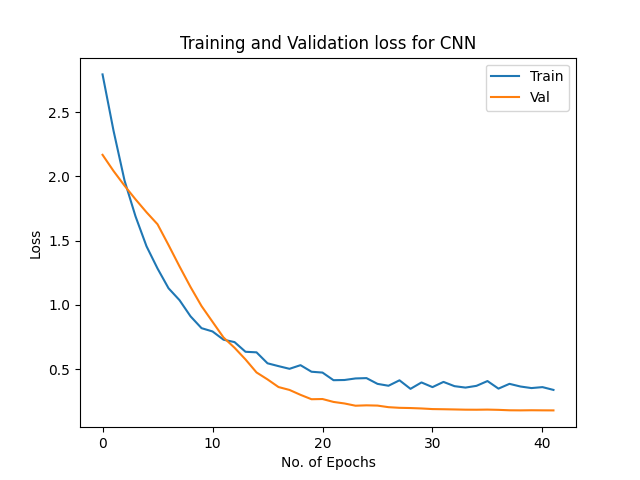
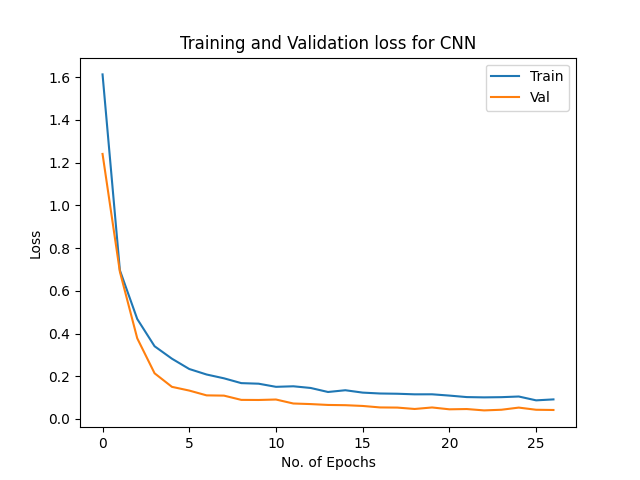
format code and change max pooling filter

diff --git a/helpers.py b/helpers.py
@@ -1,74 +1,89 @@
 import time
-from matplotlib import pyplot as plt
+
 import numpy as np
+import tensorflow as tf
+from matplotlib import pyplot as plt
+from scipy.ndimage.interpolation import shift
 from sklearn.metrics import accuracy_score
 from sklearn.utils import shuffle
-import tensorflow as tf
-from scipy.ndimage.interpolation import shift
-
 
 
 def read_data(file_path):
-  data = []
-  with open(file_path, "r") as f:
-    for line in f.readlines():
-      vector = line.split()
-      numerical_vector = list(map(lambda x: int(x), vector))
-      data.append(numerical_vector)
+    data = []
+    with open(file_path, "r") as f:
+        for line in f.readlines():
+            vector = line.split()
+            numerical_vector = list(map(lambda x: int(x), vector))
+            data.append(numerical_vector)
 
-  labels = [i for i in range(0, 10) for _ in range(200)]
-  return data, labels
+    labels = [i for i in range(0, 10) for _ in range(200)]
+    return data, labels
+
 
 def normalize(X):
-  return X / 6
+    return X / 6
+
 
 def split_data(features, labels):
-  train_features, test_features, train_labels, test_labels = [], [], [], []
-  for i in range(0, len(features), 200):
-    train_features.extend(features[i:i+100])
-    test_features.extend(features[i+100:i+200])
+    train_features, test_features, train_labels, test_labels = [], [], [], []
+    for i in range(0, len(features), 200):
+        train_features.extend(features[i : i + 100])
+        test_features.extend(features[i + 100 : i + 200])
 
-    train_labels.extend(labels[i:i+100])
-    test_labels.extend(labels[i+100:i+200])
-  
-  return normalize(np.array(train_features)), np.array(train_labels), normalize(np.array(test_features)), np.array(test_labels)
+        train_labels.extend(labels[i : i + 100])
+        test_labels.extend(labels[i + 100 : i + 200])
+
+    return (
+        normalize(np.array(train_features)),
+        np.array(train_labels),
+        normalize(np.array(test_features)),
+        np.array(test_labels),
+    )
+
 
 def plot_data(X_train, y_train):
-  num_row = 2
-  num_col = 5# plot images
-  fig, axes = plt.subplots(num_row, num_col, figsize=(2*num_col,3*num_row))
-  for i in range(10):
-      ax = axes[i//num_col, i%num_col]
-      ax.imshow(X_train[i*100].reshape(16, 15), cmap='gray', vmin=0, vmax=6)
-      ax.set_title('Label: {}'.format(y_train[i*100]))
-  plt.tight_layout()
-  plt.savefig("plots/data.png")
+    num_row = 2
+    num_col = 5  # plot images
+    fig, axes = plt.subplots(num_row, num_col, figsize=(2 * num_col, 3 * num_row))
+    for i in range(10):
+        ax = axes[i // num_col, i % num_col]
+        ax.imshow(X_train[i * 100].reshape(16, 15), cmap="gray", vmin=0, vmax=6)
+        ax.set_title("Label: {}".format(y_train[i * 100]))
+    plt.tight_layout()
+    plt.savefig("plots/data.png")
+
 
 def plot_incorrect_images(X_test, y_test, y_pred, model_name):
     wrong_predictions = y_pred != y_test
     num_row = int(np.sqrt(sum(wrong_predictions)))
     num_col = num_row + 1
-    fig, axes = plt.subplots(num_row, num_col, figsize=(3*num_col,3*num_row))
-    wrong_x, wrong_y, wrong_pred = X_test[wrong_predictions], y_test[wrong_predictions], np.array(y_pred)[wrong_predictions]
-    for i in range(num_row*num_col+num_row):
+    fig, axes = plt.subplots(num_row, num_col, figsize=(3 * num_col, 3 * num_row))
+    wrong_x, wrong_y, wrong_pred = (
+        X_test[wrong_predictions],
+        y_test[wrong_predictions],
+        np.array(y_pred)[wrong_predictions],
+    )
+    for i in range(num_row * num_col + num_row):
         try:
-            ax = axes[i//num_col, i%num_col]
-            ax.imshow(np.array(wrong_x[i]).reshape(16, 15), cmap='gray', vmin=0, vmax=6)
-            ax.set_title('Correct: {}. Predicted: {}'.format(wrong_y[i], wrong_pred[i]))
+            ax = axes[i // num_col, i % num_col]
+            ax.imshow(np.array(wrong_x[i]).reshape(16, 15), cmap="gray", vmin=0, vmax=6)
+            ax.set_title("Correct: {}. Predicted: {}".format(wrong_y[i], wrong_pred[i]))
         except:
             break
     plt.tight_layout()
     plt.show()
-    plt.savefig(f'plots/{model_name}_wrong_predictions.png')
+    plt.savefig(f"plots/{model_name}_wrong_predictions.png")
+
 
 def plot_losses(history, model_name):
-    plt.plot(history.history['loss'])
-    plt.plot(history.history['val_loss'])
-    plt.title(f'Training and Validation loss for {model_name}')
-    plt.ylabel('Loss')
-    plt.xlabel('No. of Epochs')
-    plt.legend(['Train', 'Val'], loc='upper right')
-    plt.savefig(f'plots/{model_name}_loss.png')
+    plt.plot(history.history["loss"])
+    plt.plot(history.history["val_loss"])
+    plt.title(f"Training and Validation loss for {model_name}")
+    plt.ylabel("Loss")
+    plt.xlabel("No. of Epochs")
+    plt.legend(["Train", "Val"], loc="upper right")
+    plt.savefig(f"plots/{model_name}_loss.png")
+
 
 def shift_image(image, dx, dy):
     image = image.reshape((16, 15))
@@ -80,14 +95,21 @@ def augment_data(X_train, y_train):
     X_train_augmented = [image for image in X_train]
     y_train_augmented = [image for image in y_train]
 
-    for dx, dy in ((1,0), (-1,0), (0,1), (0,-1)):
+    for dx, dy in ((1, 0), (-1, 0), (0, 1), (0, -1)):
         for image, label in zip(X_train, y_train):
             X_train_augmented.append(shift_image(image, dx, dy))
             y_train_augmented.append(label)
 
-    return np.array(X_train_augmented), np.array(y_train_augmented)
+    shuffle_idx = np.random.permutation(len(X_train_augmented))
+    X_train_augmented = np.array(X_train_augmented)[shuffle_idx]
+    y_train_augmented = np.array(y_train_augmented)[shuffle_idx]
 
-def fit_and_predict_model(model, model_name, X_train, y_train, X_test, y_test, data_augment):
+    return X_train_augmented, y_train_augmented
+
+
+def fit_and_predict_model(
+    model, model_name, X_train, y_train, X_test, y_test, data_augment
+):
     start = time.time()
     if data_augment:
         X_train, y_train = augment_data(X_train, y_train)
@@ -100,7 +122,9 @@ def fit_and_predict_model(model, model_name, X_train, y_train, X_test, y_test, d
     augmentation_sent = "with data augmentation" if data_augment else ""
 
     plot_incorrect_images(X_test, y_test, y_pred, model_name)
-    print(f"The model {model_name} {augmentation_sent} took {time.time() - start} seconds to train and results in an accuracy of {accuracy}")
+    print(
+        f"The model {model_name} {augmentation_sent} took {time.time() - start} seconds to train and results in an accuracy of {accuracy}"
+    )
 
 
 def fit_MLP_model(X_train, y_train, X_test, y_test, data_augment):
@@ -108,35 +132,36 @@ def fit_MLP_model(X_train, y_train, X_test, y_test, data_augment):
 
     if data_augment:
         X_train, y_train = augment_data(X_train, y_train)
-        
-    model = tf.keras.models.Sequential([                           
-        tf.keras.layers.Dense(64, activation='relu'),
-        tf.keras.layers.Dense(10, activation='softmax')
-    ])
 
+    model = tf.keras.models.Sequential(
+        [
+            tf.keras.layers.Dense(64, activation="relu"),
+            tf.keras.layers.Dense(10, activation="softmax"),
+        ]
+    )
 
     model.compile(
         optimizer=tf.keras.optimizers.Adam(0.001),
         loss=tf.keras.losses.CategoricalCrossentropy(),
-        metrics=['acc'],
+        metrics=["acc"],
     )
-
 
     early_stopping_callback = tf.keras.callbacks.EarlyStopping(
-        monitor='val_loss', min_delta=0, patience=4
+        monitor="val_loss", min_delta=0, patience=4
     )
     reduce_lr_callback = tf.keras.callbacks.ReduceLROnPlateau(
-        monitor='val_loss', factor=0.1, patience=2
+        monitor="val_loss", factor=0.1, patience=2
     )
 
     callbacks = [early_stopping_callback, reduce_lr_callback]
     start = time.time()
 
     history = model.fit(
-        normalize(X_train), tf.keras.utils.to_categorical(y_train),
+        normalize(X_train),
+        tf.keras.utils.to_categorical(y_train),
         validation_split=0.1,
         epochs=50,
-        callbacks=callbacks
+        callbacks=callbacks,
     )
 
     plot_losses(history, "MLP")
@@ -149,7 +174,9 @@ def fit_MLP_model(X_train, y_train, X_test, y_test, data_augment):
     plot_incorrect_images(X_test, y_test, y_pred, "MLP")
     augmentation_sent = "with data augmentation" if data_augment else ""
 
-    print(f"The model MLP {augmentation_sent} took {time.time() - start} seconds to train and results in an accuracy of {accuracy}")
+    print(
+        f"The model MLP {augmentation_sent} took {time.time() - start} seconds to train and results in an accuracy of {accuracy}"
+    )
 
 
 def fit_CNN_model(X_train, y_train, X_test, y_test, data_augment):
@@ -160,47 +187,50 @@ def fit_CNN_model(X_train, y_train, X_test, y_test, data_augment):
 
     model = tf.keras.models.Sequential()
 
-    model.add(tf.keras.layers.Conv2D(16, (3,3), activation='relu', input_shape=(16, 15, 1)))
-    model.add(tf.keras.layers.MaxPool2D((3, 3)))
+    model.add(
+        tf.keras.layers.Conv2D(16, (3, 3), activation="relu", input_shape=(16, 15, 1))
+    )
+    model.add(tf.keras.layers.MaxPool2D((2, 2)))
     model.add(tf.keras.layers.Dropout(0.7))
     model.add(tf.keras.layers.BatchNormalization())
 
-
     model.add(tf.keras.layers.Flatten())
-    model.add(tf.keras.layers.Dense(10, activation='softmax'))
+    model.add(tf.keras.layers.Dense(10, activation="softmax"))
 
     model.compile(
         optimizer=tf.keras.optimizers.Adam(0.001),
         loss=tf.keras.losses.CategoricalCrossentropy(),
-        metrics=['acc'],
+        metrics=["acc"],
     )
 
     early_stopping_callback = tf.keras.callbacks.EarlyStopping(
-        monitor='val_loss', min_delta=0.001, patience=4
+        monitor="val_loss", min_delta=0.001, patience=4
     )
     reduce_lr_callback = tf.keras.callbacks.ReduceLROnPlateau(
-        monitor='val_loss', factor=0.1, patience=2
+        monitor="val_loss", factor=0.1, patience=2
     )
 
     callbacks = [early_stopping_callback, reduce_lr_callback]
     start = time.time()
 
     history = model.fit(
-        X_train.reshape(-1, 16, 15, 1), tf.keras.utils.to_categorical(y_train),
+        X_train.reshape(-1, 16, 15, 1),
+        tf.keras.utils.to_categorical(y_train),
         validation_split=0.1,
         epochs=50,
-        callbacks=callbacks
+        callbacks=callbacks,
     )
 
     plot_losses(history, "CNN")
 
     augmentation_sent = "with data augmentation" if data_augment else ""
 
-    
     y_pred = model.predict(X_test.reshape(-1, 16, 15, 1))
     y_pred = [np.argmax(y) for y in y_pred]
 
     accuracy = accuracy_score(y_test, y_pred)
 
     plot_incorrect_images(X_test, y_test, y_pred, "CNN")
-    print(f"The model CNN {augmentation_sent} took {time.time() - start} seconds to train and results in an accuracy of {accuracy}")
+    print(
+        f"The model CNN {augmentation_sent} took {time.time() - start} seconds to train and results in an accuracy of {accuracy}"
+    )

diff --git a/main.py b/main.py
@@ -1,5 +1,7 @@
 import argparse
+
 from helpers import *
+
 
 def create_arg_parser():
     parser = argparse.ArgumentParser()
@@ -11,11 +13,13 @@ def create_arg_parser():
         help="Model to train (lr: logistic regression, svm: support vector machine, cnn: convolutional neural network, mlp: multi-layer perceptron) (default: cnn)",
     )
     parser.add_argument(
-        "-d", "--data_augment", action="store_true", help="Whether to use data augmentation (default: False)",
+        "-d",
+        "--data_augment",
+        action="store_true",
+        help="Whether to use data augmentation (default: False)",
     )
     args = parser.parse_args()
     return args
-
 
 
 if __name__ == "__main__":
@@ -23,23 +27,39 @@ if __name__ == "__main__":
 
     data, labels = read_data("data/mfeat-pix.txt")
     X_train, y_train, X_test, y_test = split_data(data, labels)
-    
+
     if args.model_name == "lr":
         from sklearn.linear_model import LogisticRegression
+
         model = LogisticRegression()
 
-        fit_and_predict_model(model, "Logistic Regression", X_train, y_train, X_test, y_test, args.data_augment)
+        fit_and_predict_model(
+            model,
+            "Logistic Regression",
+            X_train,
+            y_train,
+            X_test,
+            y_test,
+            args.data_augment,
+        )
 
     elif args.model_name == "svm":
         from sklearn.svm import SVC
+
         model = SVC()
 
-        fit_and_predict_model(model, "Support Vector Machine", X_train, y_train, X_test, y_test, args.data_augment)
+        fit_and_predict_model(
+            model,
+            "Support Vector Machine",
+            X_train,
+            y_train,
+            X_test,
+            y_test,
+            args.data_augment,
+        )
 
     elif args.model_name == "cnn":
         fit_CNN_model(X_train, y_train, X_test, y_test, args.data_augment)
 
     else:
         fit_MLP_model(X_train, y_train, X_test, y_test, args.data_augment)
-
-    
